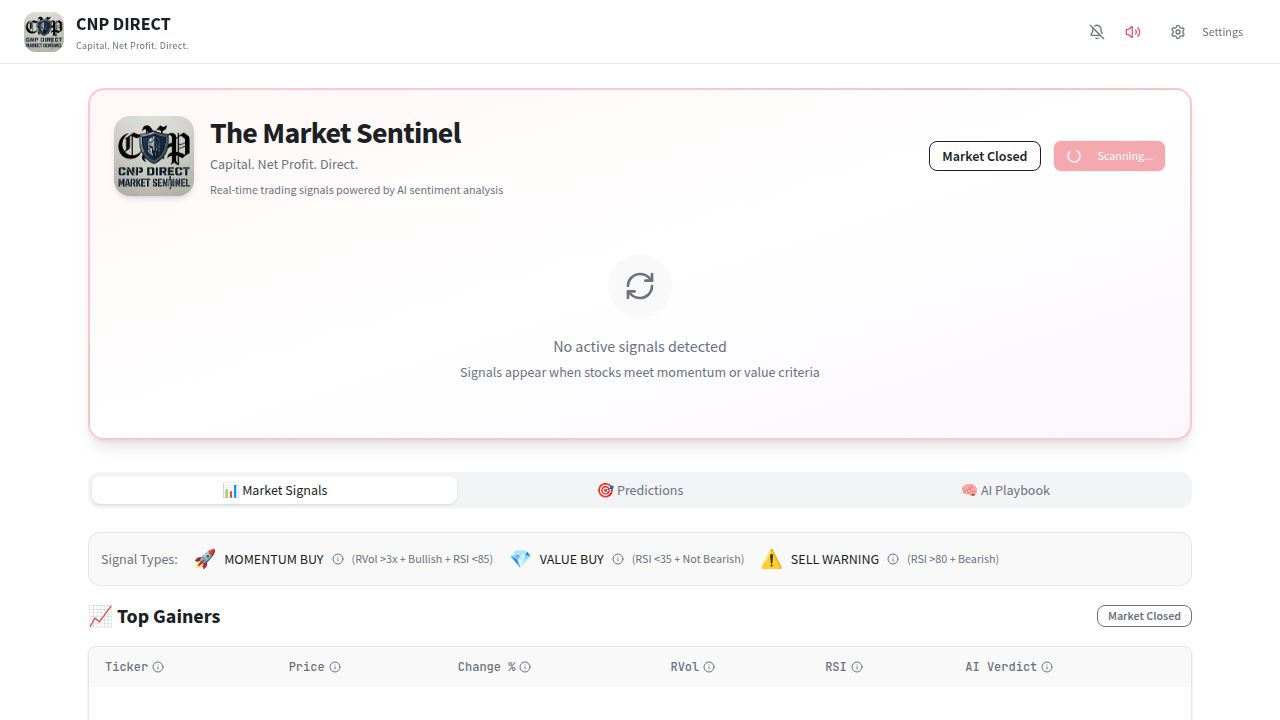
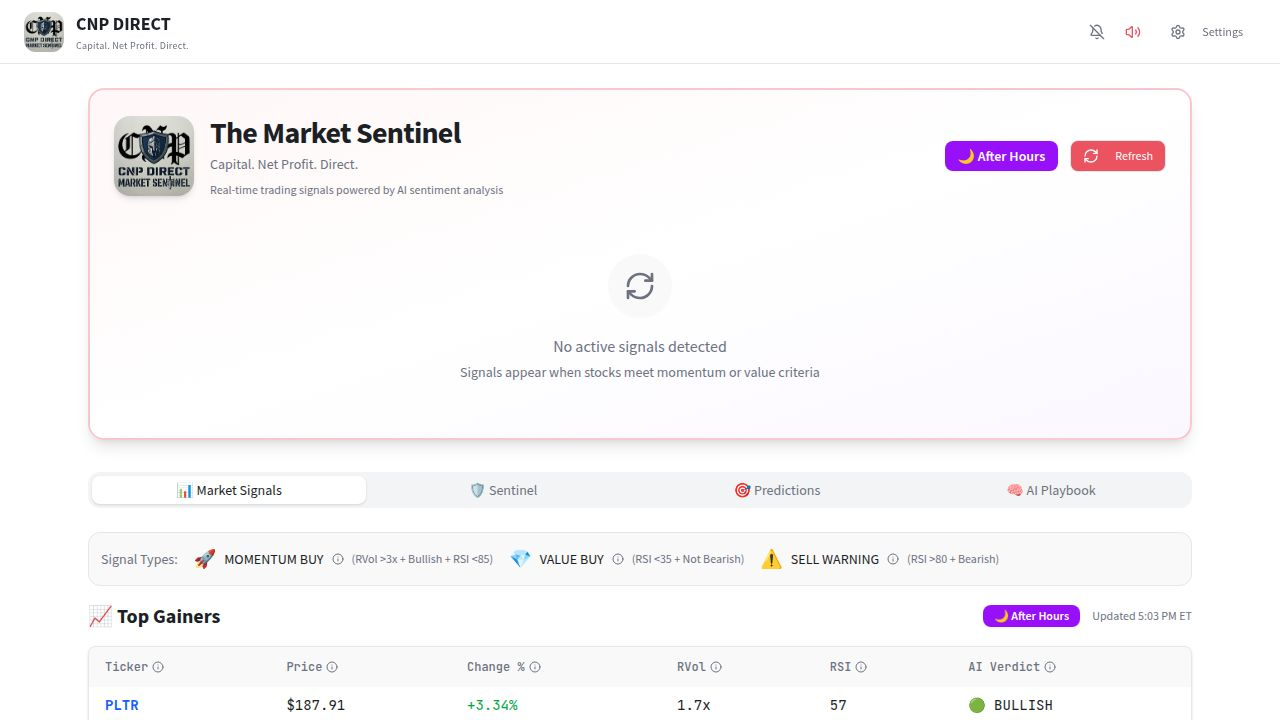
Update stock analysis to use new API methods for market data
Refactors the `server/lib/sentinel.ts` file to adapt to changes in the `yahoo-finance2` library, specifically updating the `screener` and `historical` API calls to use `chart` and adjusting parameter types for accurate data retrieval and analysis.

Replit-Commit-Author: Agent
Replit-Commit-Session-Id: db5ff1cf-1c07-46d6-991a-c6b152a6deed
Replit-Commit-Checkpoint-Type: full_checkpoint
Replit-Commit-Event-Id: ae2f7e4a-4c44-42a2-8ec0-54e664d410af
Replit-Commit-Screenshot-Url: https://storage.googleapis.com/screenshot-production-us-central1/4bf776fa-5e1b-4027-845b-9c419019ac8b/db5ff1cf-1c07-46d6-991a-c6b152a6deed/HoXRblP
Replit-Helium-Checkpoint-Created: true

diff --git a/server/lib/sentinel.ts b/server/lib/sentinel.ts
@@ -1,7 +1,9 @@
-import yf from 'yahoo-finance2';
+import YahooFinance from 'yahoo-finance2';
 // @ts-ignore - vader-sentiment doesn't have type declarations
 import { SentimentIntensityAnalyzer } from 'vader-sentiment';
 import { RSI } from 'technicalindicators';
+
+const yf = new YahooFinance();
 
 const getSentimentScore = (text: string): number => {
   const analyzer = SentimentIntensityAnalyzer;
@@ -23,12 +25,20 @@ export interface SentinelResult {
 async function analyzeStock(ticker: string): Promise<SentinelResult | null> {
   try {
     const quote = await yf.quote(ticker) as any;
-    const history = await yf.historical(ticker, { period1: '1mo', interval: '1d' }) as any[];
+    
+    const period1 = new Date();
+    period1.setMonth(period1.getMonth() - 1);
+    const chartData = await yf.chart(ticker, { 
+      period1, 
+      period2: new Date(),
+      interval: '1d' 
+    }) as any;
     const news = await yf.search(ticker, { newsCount: 5 }) as any;
 
+    const history = chartData?.quotes || [];
     if (!quote || history.length < 15) return null;
 
-    const closes = history.map((h: any) => h.close);
+    const closes = history.map((h: any) => h.close).filter((c: any) => c != null);
     const rsiValues = RSI.calculate({ values: closes, period: 14 });
     const currentRSI = rsiValues[rsiValues.length - 1] || 50;
 
@@ -85,8 +95,7 @@ async function analyzeStock(ticker: string): Promise<SentinelResult | null> {
 
 export const runMarketScan = async (): Promise<SentinelResult[]> => {
   try {
-    const queryOptions = { count: 10, scrIds: 'day_gainers' };
-    const screenerResult = await yf.screener(queryOptions) as any;
+    const screenerResult = await yf.screener({ scrIds: 'day_gainers', count: 10 }) as any;
     
     const tickers = screenerResult.quotes
       .map((q: any) => q.symbol)
